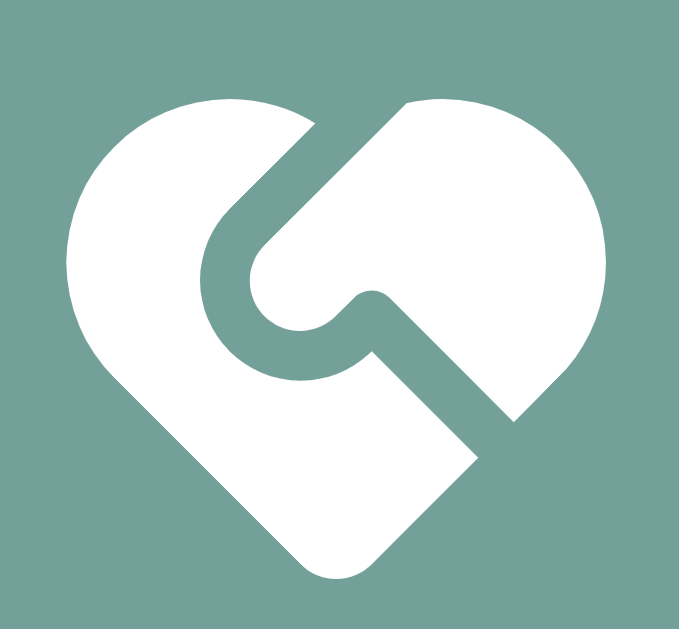
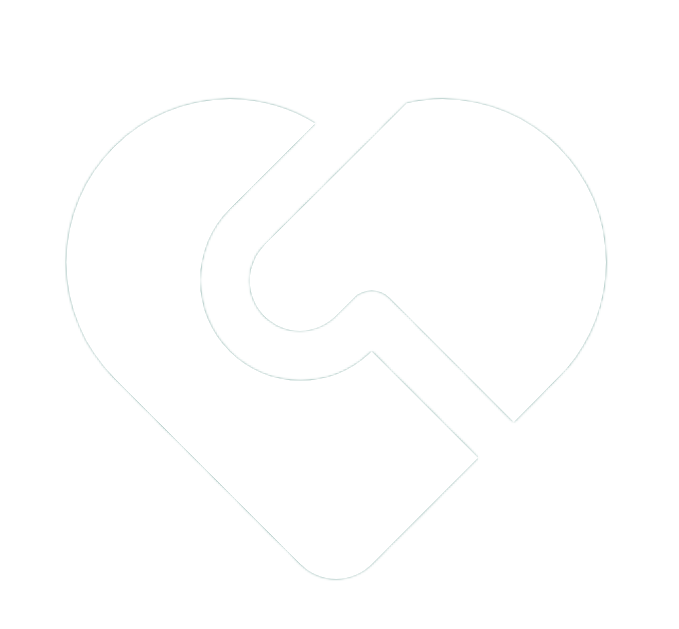
图片改为透明的、修改正方形格式，修改字体颜色大小

diff --git a/src/view/DreamchaseProject.vue b/src/view/DreamchaseProject.vue
@@ -19,7 +19,7 @@
 
     <!-- 四个正方形的小图形 -->
     <div class="square-container">
-      <div v-for="(item, index) in gridItems" :key="index" class="grid-item">
+      <div v-for="(item, index) in gridItems" :key="index" :class="['grid-item', `grid-item-${index + 1}`]">
         <img :src="item.imgSrc" :alt="item.altText" />
         <p>{{ item.title }}</p>
         <p>{{ item.description }}</p>
@@ -39,26 +39,26 @@ const gridItems = [
   {
     imgSrc: "src/img/1.png",
     altText: "Image 1",
-    title: "Title 1",
-    description: "Description 1",
+    title: "助力支持",
+    description: "累计支持 1000 人次",
   },
   {
     imgSrc: "src/img/2.png",
     altText: "Image 2",
-    title: "Title 2",
-    description: "Description 2",
+    title: "竞赛支持",
+    description: "累计参加 50 场比赛",
   },
   {
     imgSrc: "src/img/3.png",
     altText: "Image 3",
-    title: "Title 3",
-    description: "Description 3",
+    title: "服务评价",
+    description: "累计获得 100 家企业的好评",
   },
   {
     imgSrc: "src/img/4.png",
     altText: "Image 4",
-    title: "Title 4",
-    description: "Description 4",
+    title: "覆盖人群",
+    description: "累计覆盖 1000 人",
   },
 ];
 </script>
@@ -78,22 +78,25 @@ const gridItems = [
 .text-content {
   flex: 1 1 50%;
   max-width: 600px;
-  margin-right: 20px;
+  margin-left: 5%;
 }
 
 .text-content h1 {
-  font-size: 2.5rem;
+  color: #65A39A;
+  font-weight: bold;
+  font-size: 40px;
 }
 
 .text-content h3 {
-  font-size: 2rem;
-  margin-top: 20px;
+  font-size: 20px;
+  color: #65A39A;
+  /* margin-top: 20px; */
 }
 
 .text-content h4 {
-  font-size: 1.2rem;
-  color: #555;
-  margin-top: 20px;
+  color: #65A39A;
+  font-size: 15px;
+  /* margin-top: 20px; */
 }
 
 /* 正方形容器 */
@@ -101,23 +104,21 @@ const gridItems = [
   flex: 1 1 40%;
   display: grid;
   grid-template-columns: repeat(2, 1fr);
-  gap: 20px;
   max-width: 300px;
-  margin: auto;
-  
+  margin-right: 14%;
+  /* border-radius: 5px; */
 }
 
-/* 小正方形样式 */
+/* 通用小正方形样式 */
 .grid-item {
   display: flex;
   flex-direction: column;
   align-items: center;
   justify-content: flex-start;
-  background-color: #32d7b1;
-  border-radius: 8px;
+  background-color: rgb(107, 212, 179);
+  /* border-radius: 8px; */
   padding: 16px;
   text-align: center;
-  box-shadow: 0 4px 8px rgba(0, 0, 0, 0.1);
 }
 
 .grid-item img {
@@ -129,8 +130,29 @@ const gridItems = [
 .grid-item p {
   margin: 5px 0;
   font-size: 14px;
-  color: #333;
+  color: #ffffff;
   line-height: 1.4;
+}
+
+/* 单独小正方体样式 */
+.grid-item-1 {
+  background-color: #65A39A;
+  border-top-left-radius: 5px;
+}
+
+.grid-item-2 {
+  background-color: #E9AB50;
+  border-top-right-radius: 5px
+}
+
+.grid-item-3 {
+  background-color: #E9AB50;
+  border-bottom-left-radius: 5px;
+}
+
+.grid-item-4 {
+  background-color: #65A39A;
+  border-bottom-right-radius: 5px;
 }
 
 /* 响应式设计 */

diff --git a/src/view/PublicWelfareSector.vue b/src/view/PublicWelfareSector.vue
@@ -92,7 +92,7 @@ img{
 /* 文本样式 */
 .title {
   font-weight: bold;
-  font-size: 3rem;
+  font-size: 50px;
   margin-bottom: 20px;
   color: #65A39A;
   text-align: center; /* 使标题居中 */
